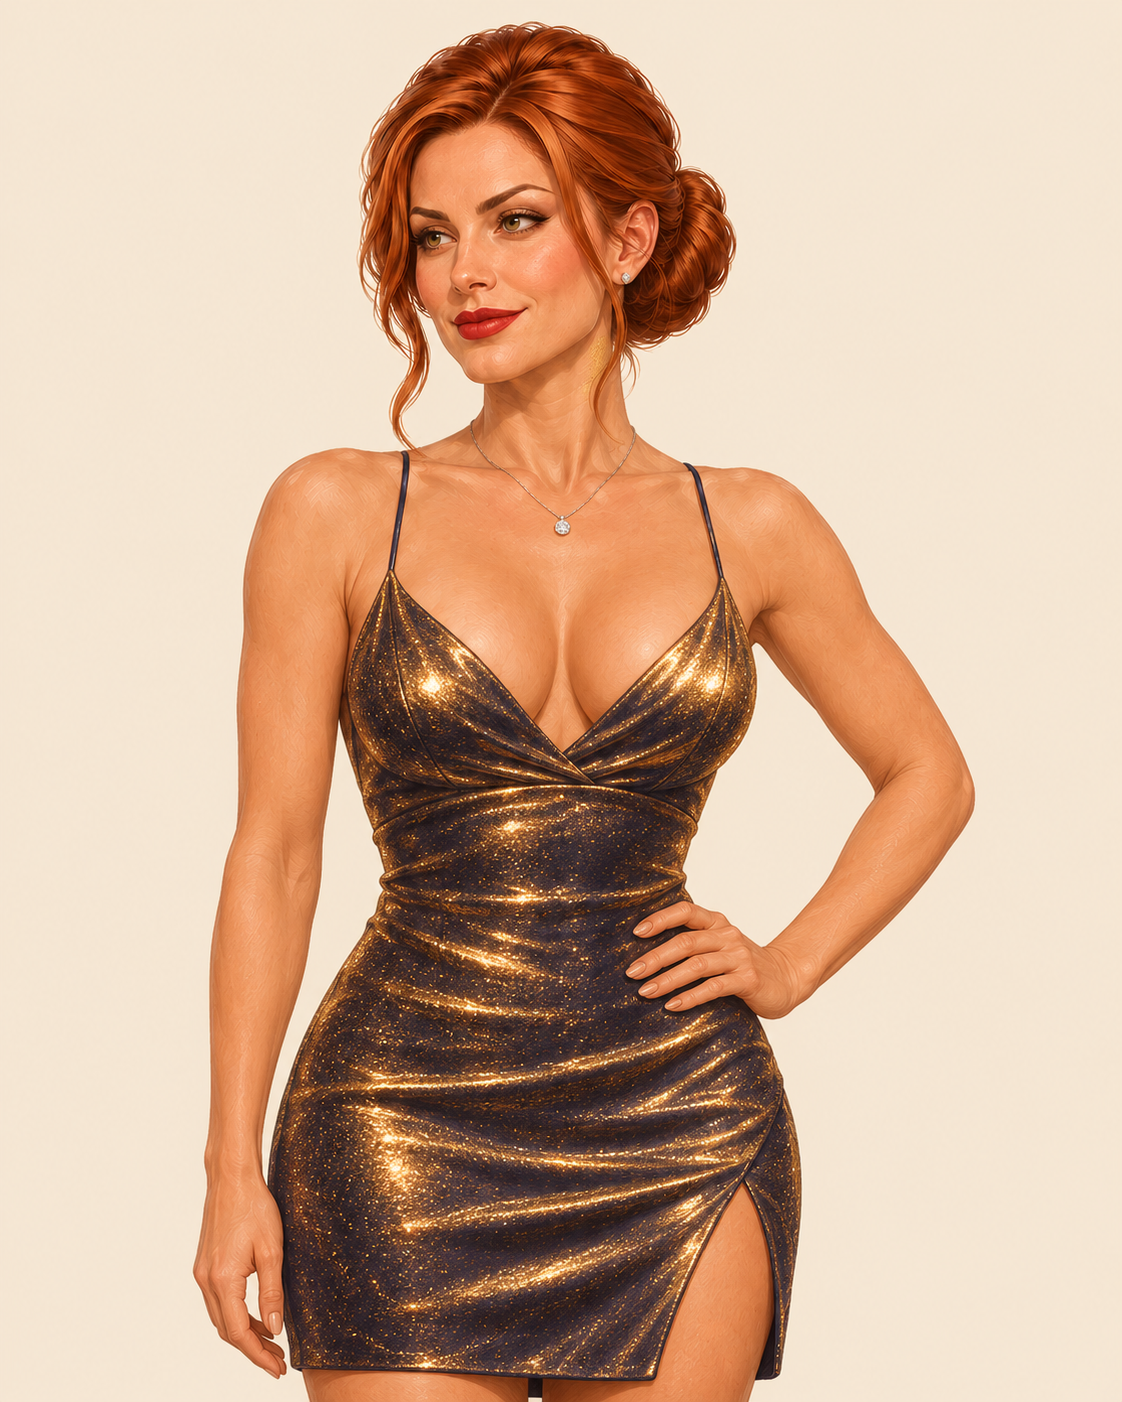
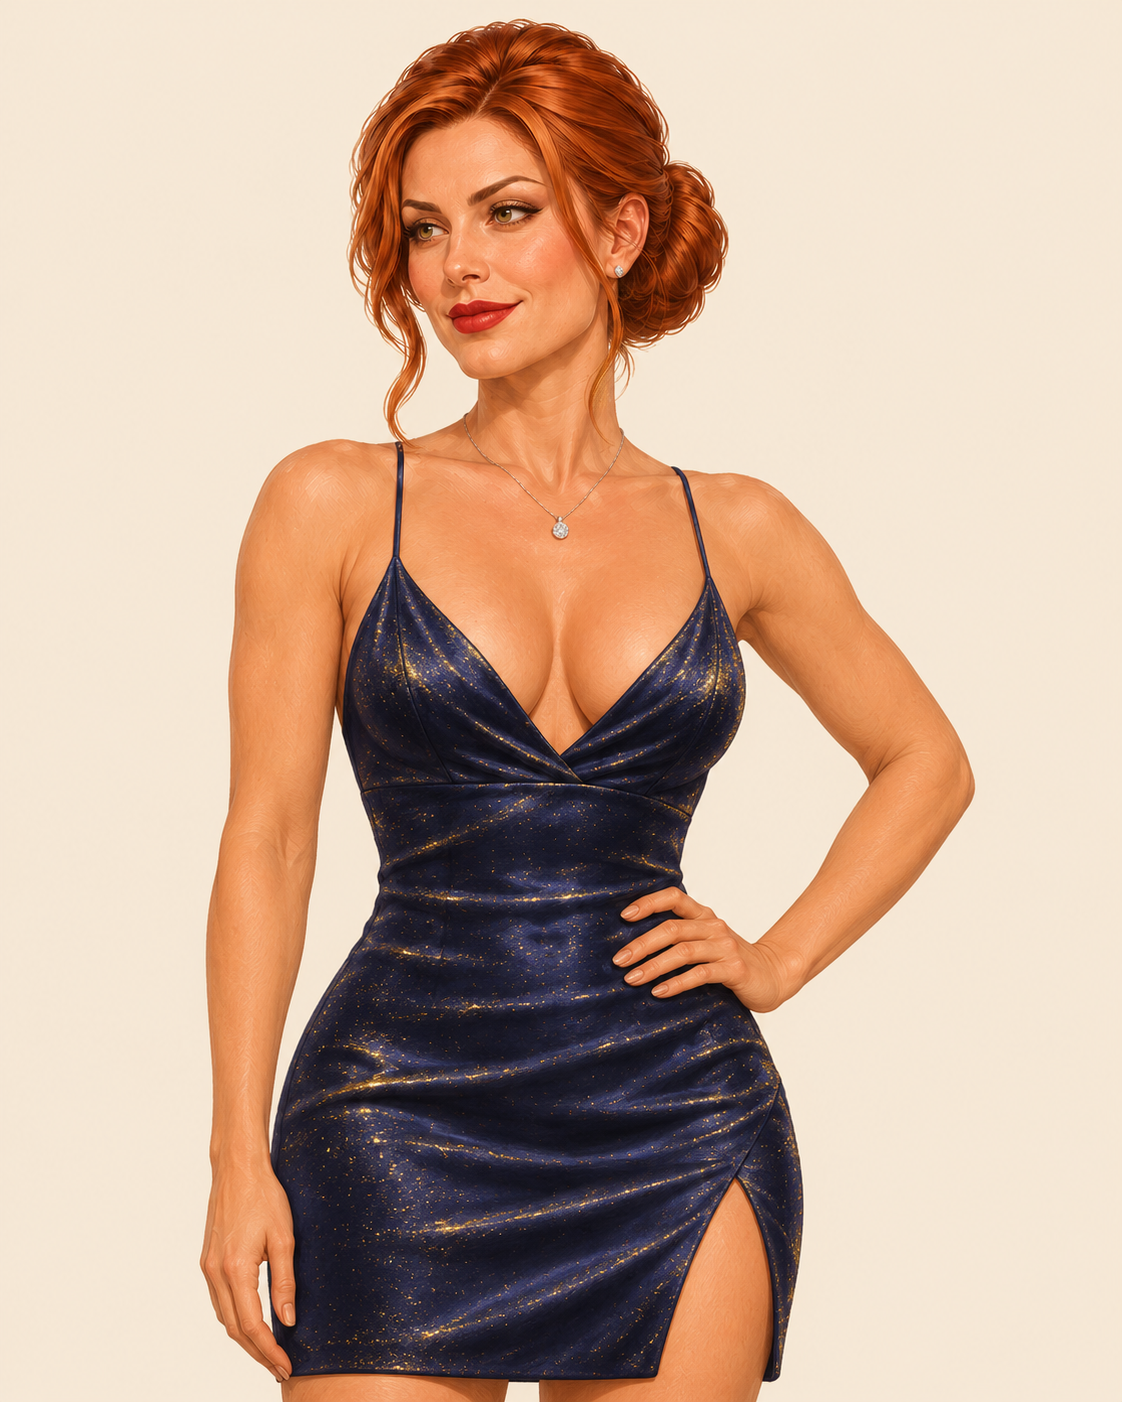
V7 Parti 3a retleri: G37, G50, G51, G52, G59, G60 onaylı; G36, G38, G55 kalsın (Oğuz Bey); G39–G41 renk sürekliliği için yeniden (gece mavisi), el onayı Oğuz Bey — Parti 3 tamam

diff --git a/uretim/v7/DURUM.md b/uretim/v7/DURUM.md
@@ -1,3 +1,5 @@
+**25 Kasım 2026, akşam — 3a retleri:** Düzeltme 1 ile G37, G50, G51, G52 (Tahsin 1,33), G59 (Cengo 1,30), G60 GEÇTİ ve onaylı; G36, G38 (tarz +0,016) ve G55 (yüz 0,693) ikinci kez sınırda → Oğuz Bey "kalsın" (`vaka7_kapi.md`). El onayı dokuzu (Oğuz Bey). G39–G41 Düzeltme 1 ile yeniden üretildi (elbise gece mavisi, seyrek altın; tarz +0,076…+0,085 · yüz 0,833…0,860), eskileri red/…_red1, el onayı Oğuz Bey. **PARTİ 3 TAMAM** — sırada göm (GOMME-8), kart afişi, masa kartı, portreler.
+
 **25 Kasım 2026, akşamüstü — PARTİ 3b (G63–G99, 6 detay + 31 kare) onaylı:** hepsi tarz GEÇTİ (+0,045…+0,221), göz denetimi geçti, el onayı Oğuz Bey. El aracının kişi sayısı uyarıları (G84, G85, G86, G87, G94) kalabalık ve altın Peri yüzünden; onayla kapandı. Karar: G39–G41 (peri.altin_temiz) yeniden üretilecek — karelerde elbise gece mavisi + pırıltı, figürlerde bronz-altın (süreklilik, SATIR-7).
 
 **25 Kasım 2026, öğleden sonra — PARTİ 3a (G31–G62) üretildi.** Onaylı 23 (üç araç GEÇTİ + göz; el onayı Oğuz Bey): G31–G35, G39–G49, G53, G54, G56–G58, G61, G62. **Ret 9 → Düzeltme 1:** tarz ŞÜPHELİ G36, G37, G38 (Peri gala), G50, G51 (Kaan), G60 (Ercan); benzerlik ŞÜPHELİ G52 (Şükrü→Tahsin 1,40), G59 (Ercan→Cengo 1,42); yüz ŞÜPHELİ G55 (Vedat 0,608). Parti 3b (G63–G99) döngüde. Bilerek üretilmeyen yer tutucular (satırı yok, yalnız karede): peri.altin.*, peri.gala.yumusak, cengo.smokin.sinirli, cengo.smokin_tepsi.kas. Not: G39–G41'de elbise koyu mavi üstünde yoğun altın parıltı ("pırıl pırıl" satırına uyuyor).

diff --git a/sablon/vakalar/vaka7_kapi.md b/sablon/vakalar/vaka7_kapi.md
@@ -37,3 +37,6 @@ Resimler gelince (adım 8–10) figürlere bakılarak yazılır. Görselsiz aşa
 
 Sahibinin "kalsın" dediği bulgular (`- K<n> | <satırın başı>`). Bir daha sorulmaz.
 - G9 | benzerlik | Ercan ↔ Cengo 1,41 (şüphe sınırı 1,40; aynı resim önce 1,34 ölçüldü). Gözle ayrışıyor: jöleli düz saç, traşlı, yelek, eldiven — Cengo dağınık saçlı, sakallı, ceketli. Barbaros, 23 Kasım 2026.
+- G36 | tarz | peri.gala.sasirmis +0,016 iki üretimde (şüphe sınırı 0,02); onaylı G34 ile yan yana aynı boyalı tarz. Oğuz Bey, 25 Kasım 2026.
+- G38 | tarz | peri.gala.utanmis +0,016 iki üretimde (şüphe sınırı 0,02); onaylı G34 ile yan yana aynı boyalı tarz. Oğuz Bey, 25 Kasım 2026.
+- G55 | yüz | vedat.yakalanmis 0,693 (geçme 0,70; ilk üretim 0,608); kel, kır sakallı, kalın gözlüklü Vedat açıkça tanınıyor, çökmüş ifade puanı düşürüyor. Oğuz Bey, 25 Kasım 2026.

diff --git a/uretim/v7/el_onay.md b/uretim/v7/el_onay.md
@@ -21,9 +21,12 @@ El sayfasına (python kaynak/arac_el.py --sayfa V7 G<n>) bakılıp her elin kend
 - G33 164a7497864e
 - G34 0f15d38421f3
 - G35 a08a59b307bf
-- G39 9399f75a7008
-- G40 703f951cc17b
-- G41 31f70c0e5dc3
+- G36 f3535c61caa6
+- G37 f71453fdb705
+- G38 e5a82ca0e306
+- G39 1ff79e92a5a1
+- G40 7aec093bae74
+- G41 bce1d7c589b6
 - G42 c85e21920536
 - G43 58d3c4e55798
 - G44 43fac8d836ad
@@ -32,11 +35,17 @@ El sayfasına (python kaynak/arac_el.py --sayfa V7 G<n>) bakılıp her elin kend
 - G47 d869118d863f
 - G48 d50c3842dc5a
 - G49 61d80e9cbd8d
+- G50 cd21eb0685fc
+- G51 daacd11c3743
+- G52 dfc9df928d79
 - G53 dd8bed0edf59
 - G54 61a6ebbe7678
+- G55 85b175bf1e55
 - G56 8ad9fc69bfc8
 - G57 83545510500b
 - G58 df1fafb730d6
+- G59 8fd5811c7412
+- G60 57f86f96703d
 - G61 e91e7ad5e0e7
 - G62 0727543cda4f
 - G63 0a344a0cb8ac

diff --git a/uretim/v7/prompts/G39.md b/uretim/v7/prompts/G39.md
@@ -51,3 +51,7 @@ Görselde hiçbir yazı, harf, rakam, logo ya da etiket olmasın.
 
 Görselin oranı TAM 4:5, dikey (1122×1402).
 ```
+
+## Düzeltme 1
+
+Renk tutarlılığı (karelerle aynı olmalı): elbise bronz ya da altın DEĞİL. Elbisenin rengi açıkça koyu GECE MAVİSİ saten; altın yaldız yalnız kumaşın üstüne serpilmiş seyrek, ince, ışıkta parlayan küçük noktalar (kumaşın çoğu mavi görünüyor). Yüz, saç, kolye, eldivensiz kollar, poz ve ifade aynı.

diff --git a/uretim/v7/prompts/G40.md b/uretim/v7/prompts/G40.md
@@ -60,3 +60,7 @@ Görselde hiçbir yazı, harf, rakam, logo ya da etiket olmasın.
 
 Görselin oranı TAM 4:5, dikey (1122×1402).
 ```
+
+## Düzeltme 1
+
+Renk tutarlılığı (karelerle aynı olmalı): elbise bronz ya da altın DEĞİL. Elbisenin rengi açıkça koyu GECE MAVİSİ saten; altın yaldız yalnız kumaşın üstüne serpilmiş seyrek, ince, ışıkta parlayan küçük noktalar (kumaşın çoğu mavi görünüyor). Yüz, saç, kolye, eldivensiz kollar, poz ve ifade aynı.

diff --git a/uretim/v7/prompts/G41.md b/uretim/v7/prompts/G41.md
@@ -48,3 +48,7 @@ Görselde hiçbir yazı, harf, rakam, logo ya da etiket olmasın.
 
 Görselin oranı TAM 4:5, dikey (1122×1402).
 ```
+
+## Düzeltme 1
+
+Renk tutarlılığı (karelerle aynı olmalı): elbise bronz ya da altın DEĞİL. Elbisenin rengi açıkça koyu GECE MAVİSİ saten; altın yaldız yalnız kumaşın üstüne serpilmiş seyrek, ince, ışıkta parlayan küçük noktalar (kumaşın çoğu mavi görünüyor). Yüz, saç, kolye, eldivensiz kollar, poz ve ifade aynı.
